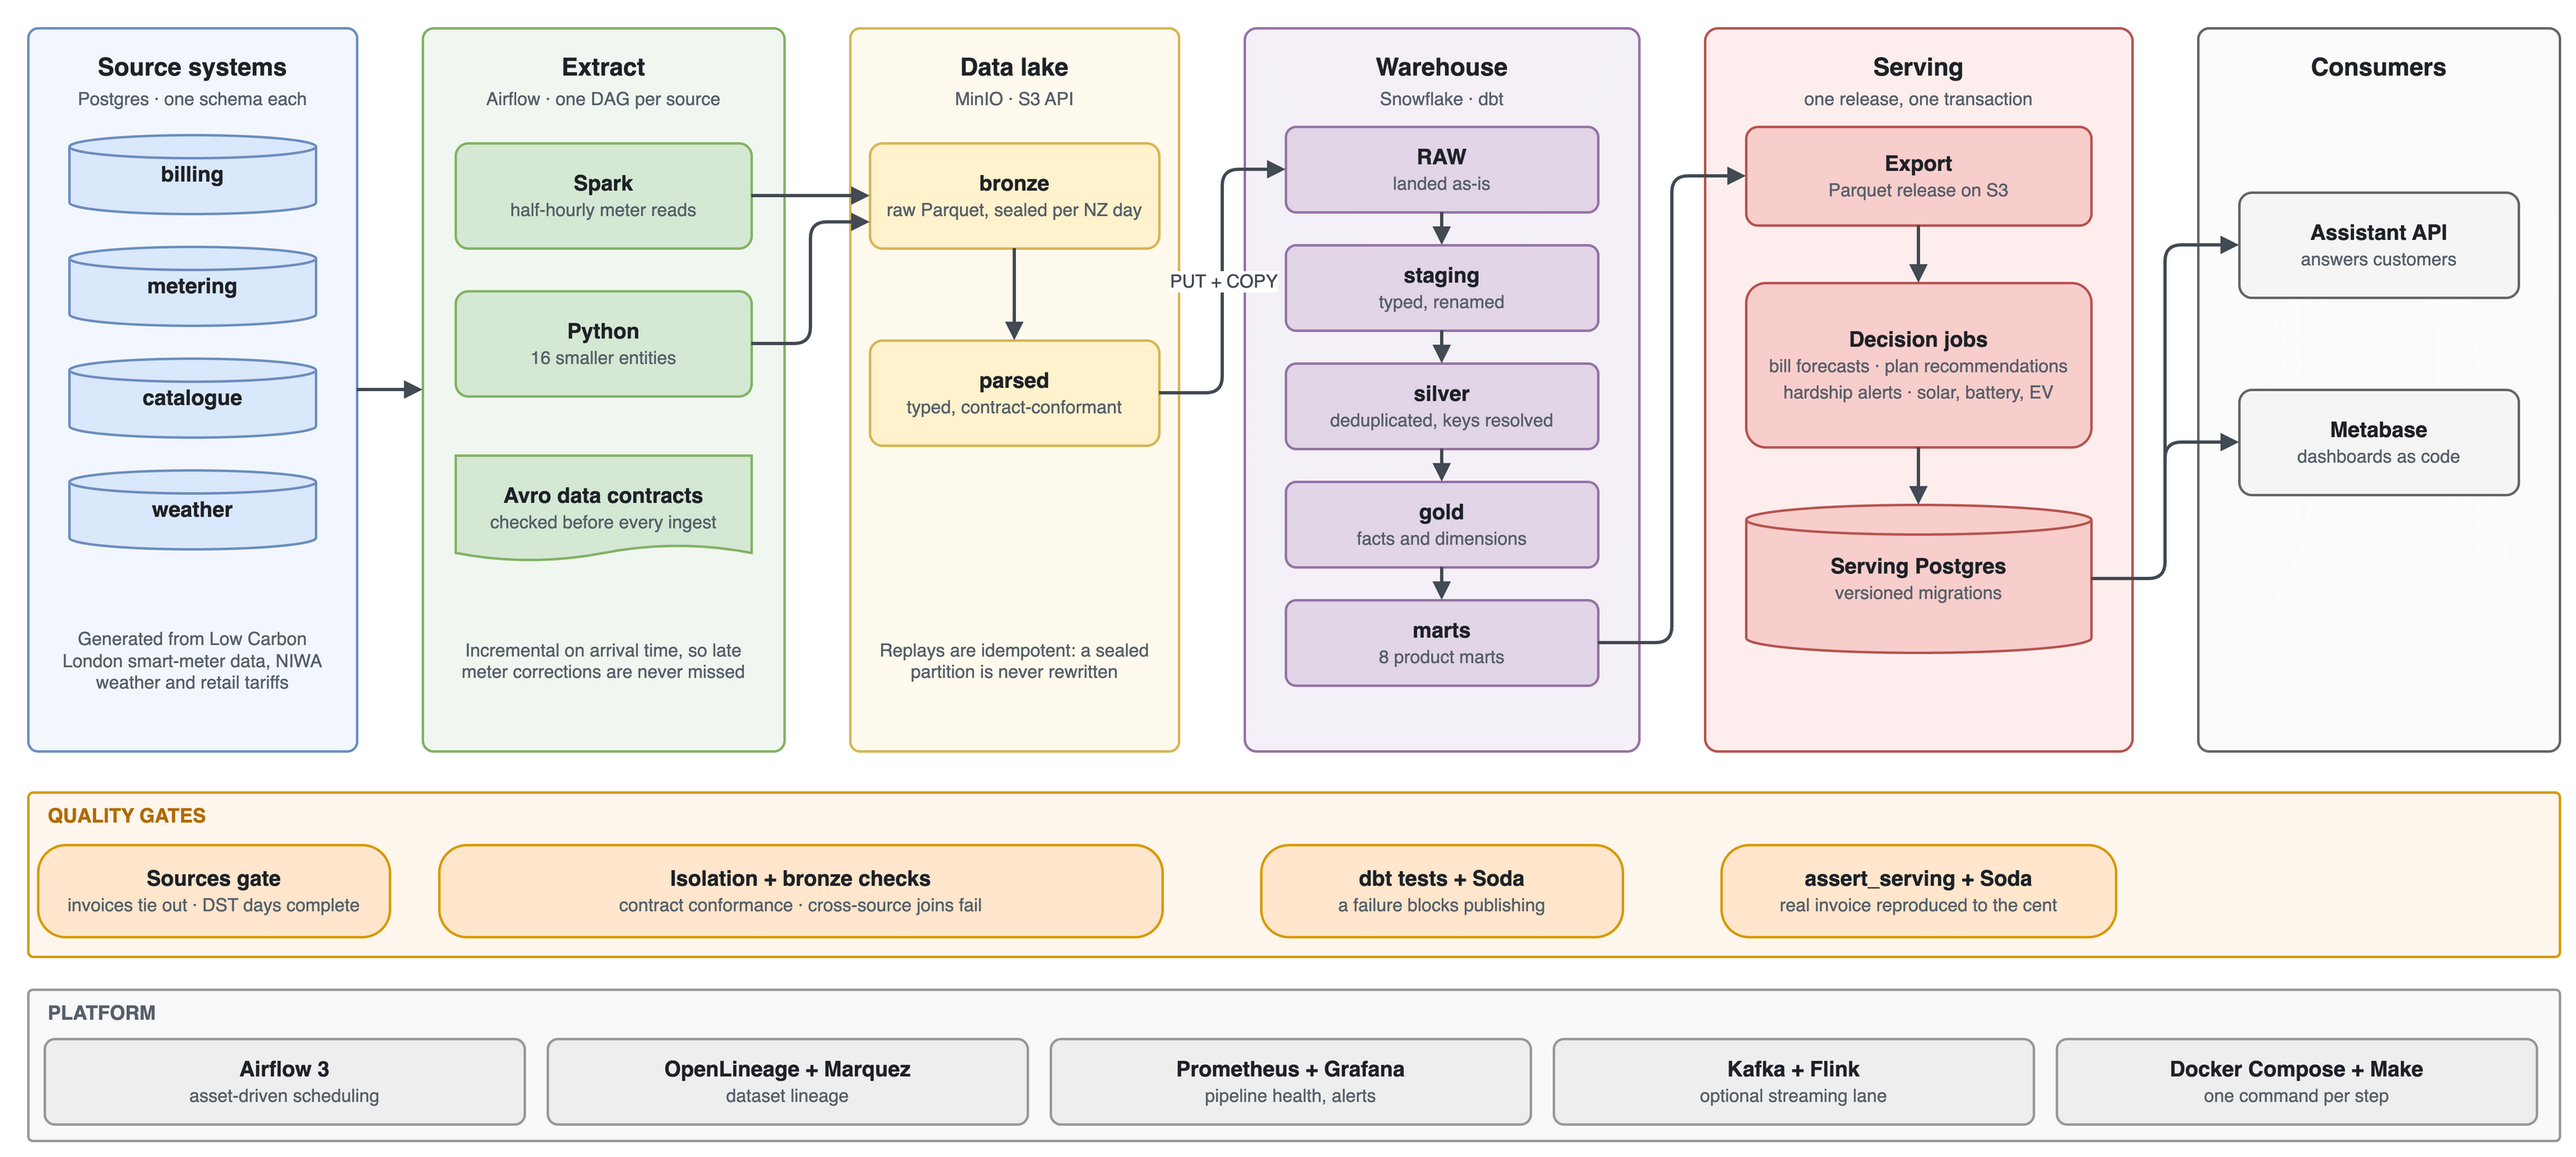
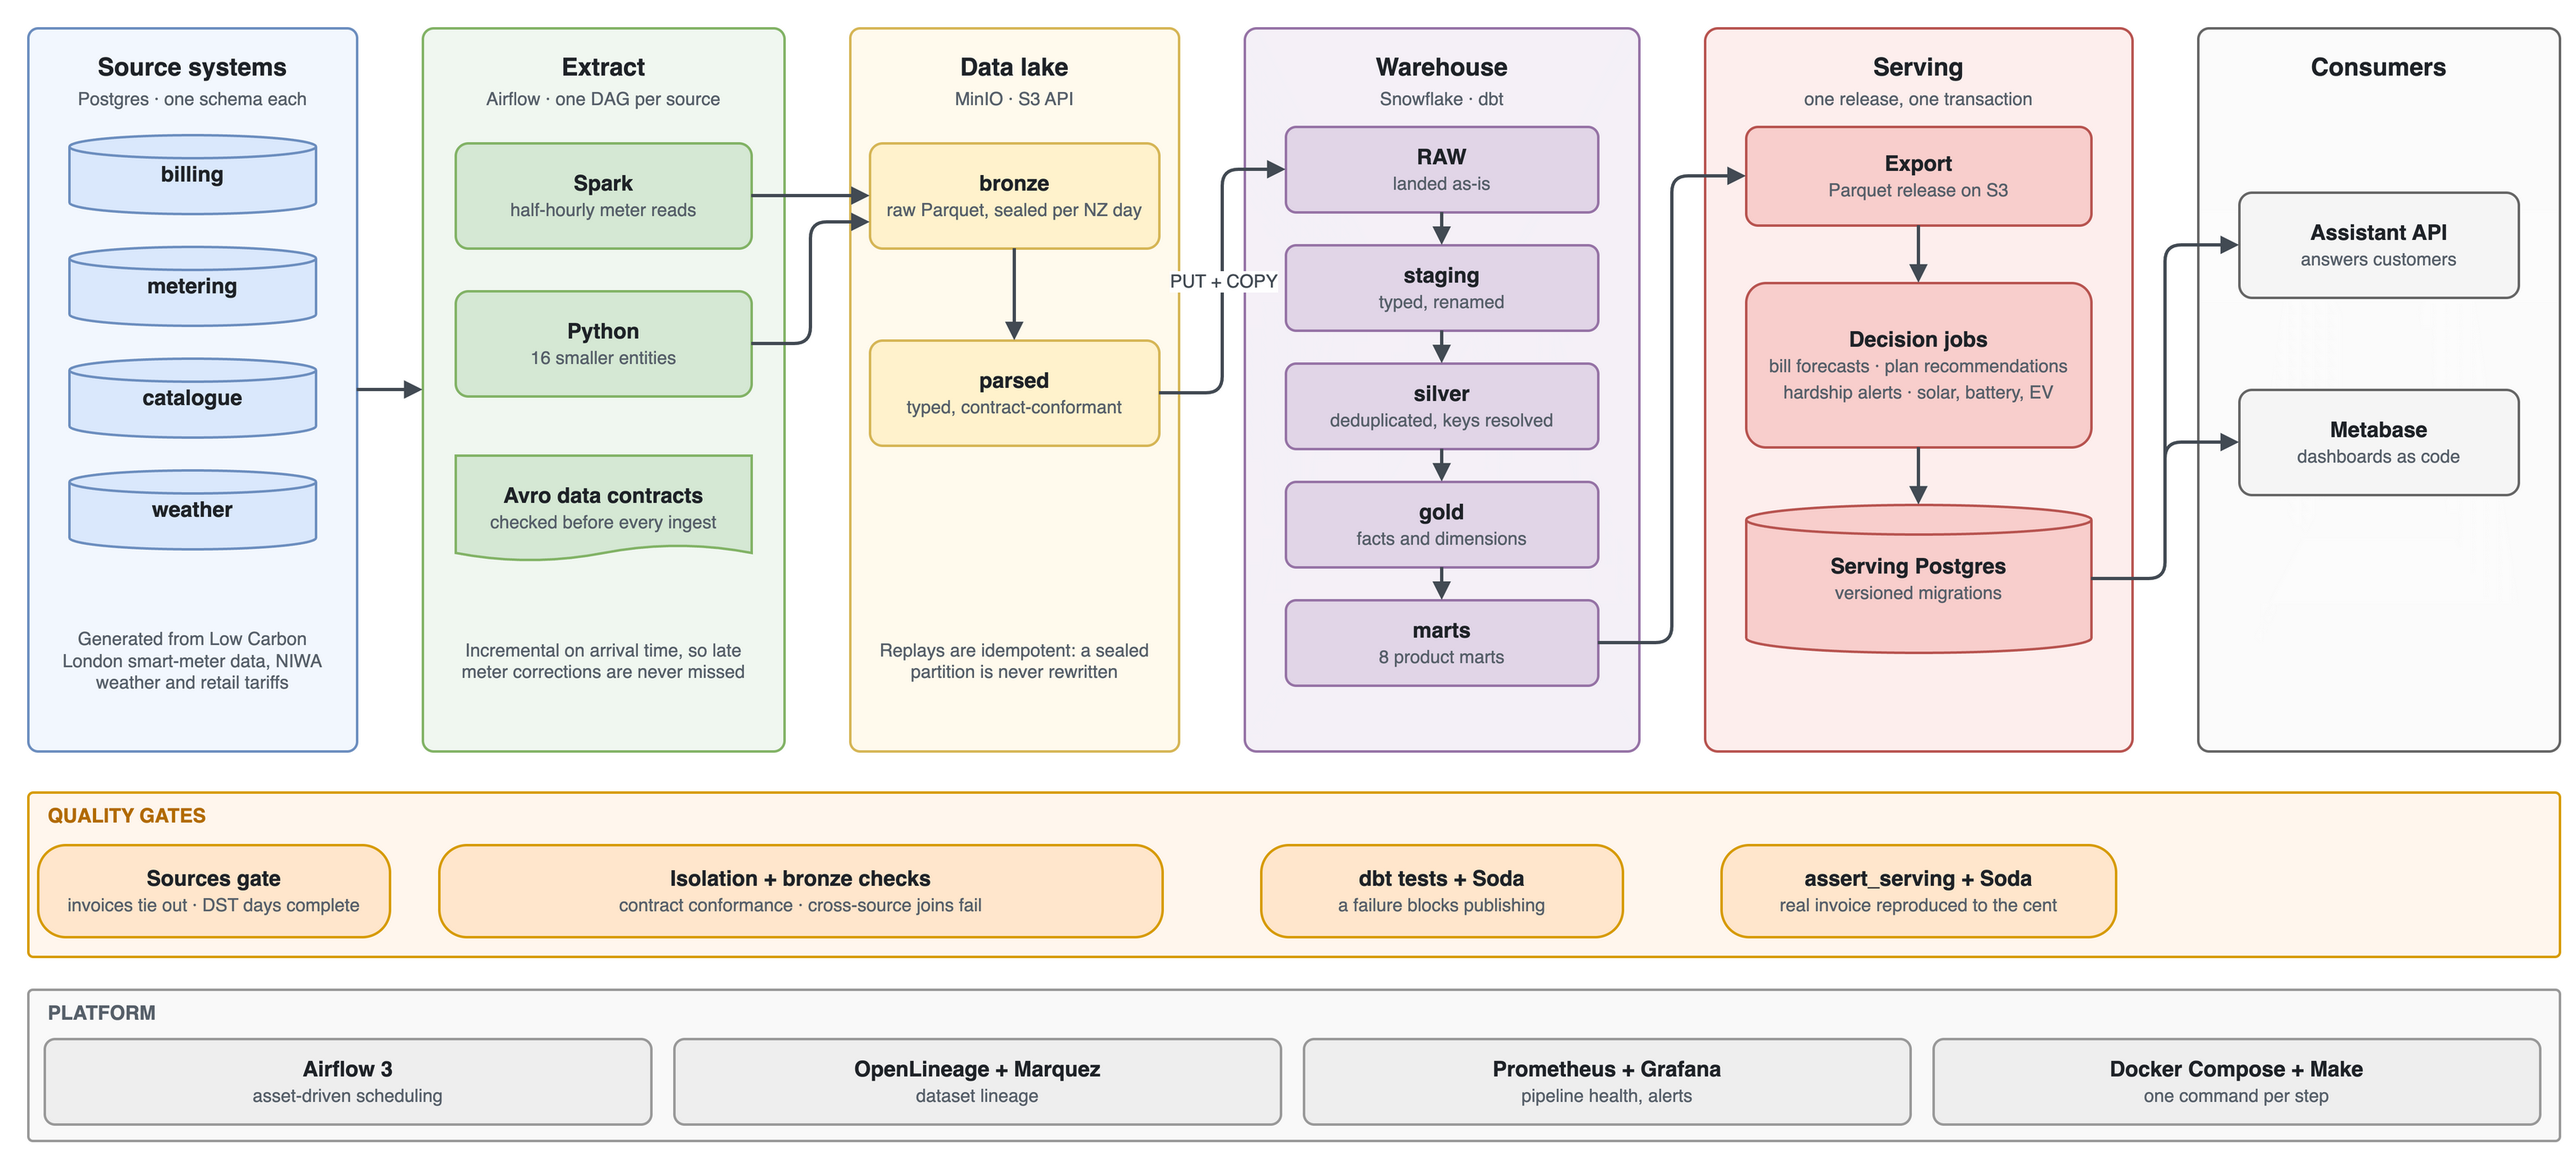
docs: restructure the README around results, data flow and how to run it

diff --git a/README.md b/README.md
@@ -1,104 +1,150 @@
 # Kea Energy — Data Platform
 
-The data platform behind **Kea**, an AI assistant for New Zealand electricity customers.
-It explains why a bill went up, forecasts the next one, recommends a cheaper plan, prices
-solar, battery and EV options, and flags households heading into payment difficulty.
+**A batch data platform that turns smart-meter readings into bill explanations, bill forecasts
+and plan recommendations for New Zealand electricity customers.**
 
-This repository is the batch pipeline that feeds the assistant. It takes data from four
-source systems, writes it to an S3 data lake, models it in Snowflake with dbt, and
-publishes tested releases into the application's Postgres. Every number the assistant
-quotes can be traced back to a source row.
+Kea is an AI assistant for electricity customers. Customers ask it questions like "why did my
+bill go up?", "what will next month cost?" and "would another plan be cheaper?". Each answer
+needs half-hourly meter data, billing history, tariffs and weather from separate systems, and
+it has to be correct. This repository is the pipeline that collects that data, models it and
+publishes it to the assistant in tested releases.
 
 ![Kea data pipeline](design/figures/pipeline.png)
 
+## Highlights
+
+- **End to end, from source to app.** 4 source systems and 17 entities flow through 6 Airflow
+  DAGs, 53 dbt models and 8 Metabase dashboards. Each pipeline step is a single `make`
+  command, and every step is safe to run again.
+- **Correct to the cent.** The serving gate recalculates a real printed invoice from its
+  half-hourly meter reads and must match it exactly: **$50.54**.
+- **Forecasts are backtested before they ship.** On 200 households, a kNN quantile model
+  ([Botman et al., 2025](analysis/forecast_backtest/README.md)) was tested as a fallback for
+  the production bill forecast:
+  - its P10–P90 range contained the actual month-end usage **81.1%** of the time (target 70–90%);
+  - its CRPS (probabilistic forecast error, lower is better) was **0.85×** the production
+    model's;
+  - as a fallback, it raises the number of billing snapshots that get a forecast from
+    **23,152 to 61,234**.
+- **Failed releases never reach the app.** Each release publishes the served tables and the
+  decisions computed from them in one transaction. If any dbt test fails, the app keeps
+  serving the previous release.
+- **Tested at every layer.** 488 Python tests, dbt data and unit tests, Soda checks, and a SQL
+  gate at the end of each step.
+
+## How it works
+
+1. **Sources.** Four Postgres systems (billing, metering, catalogue, weather) are generated
+   from public data and include deliberate defects and late meter corrections.
+2. **Extract.** Each source system has its own Airflow DAG and least-privilege database role.
+   Spark handles the half-hourly meter reads and plain Python handles the 16 smaller entities.
+   Extracts are incremental on arrival time, so late corrections are picked up.
+3. **Lake.** Data lands as Parquet on S3-compatible storage, sealed per New Zealand day and
+   checked against Avro contracts.
+4. **Warehouse.** Data is loaded into Snowflake, then modelled by dbt through staging →
+   silver → gold → marts, with tests at each layer.
+5. **Serve.** Marts are exported as a release and published to the app's Postgres. In the
+   same transaction, decision jobs compute bill forecasts, plan recommendations, hardship
+   alerts and solar, battery and EV estimates.
+
 ## Tech stack
 
-| Concern | Tools |
-|---|---|
-| Orchestration | Airflow 3.3 (asset-driven DAGs) |
-| Processing | Spark 3.5 for half-hourly meter reads, plain Python for the smaller entities |
-| Storage | MinIO (S3 API), Parquet, Avro schemas as data contracts |
-| Warehouse | Snowflake, dbt 1.12 (staging → silver → gold → marts) |
-| Serving | Postgres 17, versioned immutable migrations |
-| Data quality | dbt tests and unit tests, Soda Core, SQL serving gate |
-| Observability | OpenLineage + Marquez (lineage), Prometheus + Grafana (pipeline health), Metabase (analysis) |
-| Streaming (optional) | Kafka, Schema Registry, Flink |
-| Infrastructure | Docker Compose, Make, Vault (dev) |
-
-## Data
-
-The source systems are generated from real public datasets, so the data has real
-behaviour but contains no customer information.
-
-| Source | Used for |
-|---|---|
-| [Low Carbon London](https://www.kaggle.com/datasets/jeanmidev/smart-meters-in-london) smart-meter data | A deterministic 200-household cohort, re-timed to New Zealand local time ([how](dictionary/lcl-source-data.md)) |
-| [NIWA](dictionary/niwa-weather-source.md) daily temperature | Heating-degree days for weather-adjusted forecasts (non-commercial licence, not redistributed) |
-| [Retail tariffs](dictionary/ecotricity-tariff-source.md) | Three plan families used to price bills; values that had to be assumed are marked |
-| [`sample/`](sample/) | Nine hand-built households, each a bill-shock scenario that checks its own totals |
-
-Billing history, data defects and late revisions are added on top, so the quality gates
-have real problems to catch. Dollar figures are illustrative.
+| Layer | Tool | Why |
+|---|---|---|
+| Orchestration | Airflow 3.3 | Data-aware scheduling: the daily pipeline starts when its source data has landed, not at a fixed time |
+| Processing | Spark 3.5, Python | Spark only for the millions of meter reads; small tables don't justify a cluster |
+| Lake | MinIO, Parquet, Avro | Runs locally with the same S3 API as AWS; Avro contracts catch schema drift before ingest |
+| Warehouse | Snowflake, dbt 1.12 | Layered, version-controlled SQL models with built-in tests and docs |
+| Serving | Postgres 17 | The app's own database; schema changes go through immutable, versioned migrations |
+| Data quality | dbt tests, Soda Core | Tests the logic during the build and checks the data after each load |
+| Observability | OpenLineage + Marquez, Prometheus + Grafana | Table-level lineage plus pipeline health and alerting |
+| Analytics | Metabase | Dashboards built from code, with every card checked automatically |
 
 ## Getting started
 
 **Prerequisites:** Docker, GNU Make, Python 3.11, a Snowflake account (set up once with
-[`snowflake/bootstrap.sql`](snowflake/bootstrap.sql)), and a Kaggle API token.
+[`snowflake/bootstrap.sql`](snowflake/bootstrap.sql)), and a
+[Kaggle API token](https://www.kaggle.com/settings) to download the meter data.
 
 ```bash
-cp .env.example .env      # fill in passwords, Snowflake key-pair auth,
-                          # and add KAGGLE_USERNAME / KAGGLE_KEY
-make help                 # list every step in run order
-make ci                   # lint, unit tests, dbt parse, DAG import; needs no .env
+git clone https://github.com/nanhangfei/kea-energy-data.git && cd kea-energy-data
+cp .env.example .env      # fill in passwords and Snowflake key-pair auth;
+                          # add KAGGLE_USERNAME and KAGGLE_KEY
+make ci                   # offline checks; needs no .env or credentials
 make rebuild-all          # the whole pipeline end to end (~23-37 min)
 ```
 
-Each step is one idempotent command, and each calls the same scripts the Airflow DAG runs:
+Or run it one step at a time. Each command calls the same scripts as the Airflow DAG:
 
 | Step | Command | What it does |
 |---|---|---|
-| Stack | `make up` | Start the local platform (`STREAMING=1` adds Kafka and Flink) |
-| Sources | `make init-sources` | Generate and load the four source systems, then check them |
-| Lake | `make ingest-date LOAD_DATE=…` | Extract one NZ day from every source into bronze, then check it |
-| Warehouse | `make build-warehouse` | Load Snowflake RAW, run `dbt build`, then run Soda checks |
-| Serving | `make publish-serving RELEASE=…` | Export, publish one release with its decisions, then check it |
-| Analysis | `make dashboards` | Rebuild Metabase dashboards from code and check every card |
-| Orchestration | `make run-pipeline` | Trigger the daily DAG; `VERIFY=1` runs the quality proofs |
+| Stack | `make up` | Start the local platform |
+| Sources | `make init-sources` | Generate and load the four source systems |
+| Lake | `make ingest-date LOAD_DATE=2026-08-25` | Extract one NZ day from every source |
+| Warehouse | `make build-warehouse` | Load Snowflake and run `dbt build` |
+| Serving | `make publish-serving RELEASE=r1` | Publish one release with its decisions |
+| Analysis | `make dashboards` | Rebuild the Metabase dashboards |
 
-Local UIs: Airflow `:8080`, Metabase `:3002`, Grafana `:3001`, Marquez `:3000`, Spark history `:18080`.
+Local UIs: Airflow [:8080](http://localhost:8080), Metabase [:3002](http://localhost:3002),
+Grafana [:3001](http://localhost:3001), Marquez [:3000](http://localhost:3000).
+`make help` lists every command and option.
 
-## Repository layout
+## Testing and data quality
+
+| Command | What it checks |
+|---|---|
+| `make ci` | Lint, unit tests, migrations, dbt parse and DAG imports, offline |
+| `make ingest-date VERIFY=1` | The lake: an idempotent replay, contract conformance, and that a billing outage leaves metering unaffected |
+| `make run-pipeline VERIFY=1` | Failure paths end to end, for example that a failing dbt test leaves the served data unchanged |
+
+Every step ends with a gate that fails the run: source integrity, lake isolation, `dbt test`
+plus Soda on the warehouse, and `assert_serving` plus Soda on the published release.
+
+## Data
+
+The data is generated from real public datasets, so it behaves like real data but contains
+no customer information.
+
+| Source | Used for |
+|---|---|
+| [Low Carbon London](https://www.kaggle.com/datasets/jeanmidev/smart-meters-in-london) smart-meter data | A deterministic 200-household cohort, shifted to NZ time and seasons ([details](dictionary/lcl-source-data.md)) |
+| [NIWA](dictionary/niwa-weather-source.md) daily temperatures | Heating-degree days for weather-adjusted forecasts (non-commercial licence, not redistributed) |
+| [Retail tariffs](dictionary/ecotricity-tariff-source.md) | Three plan families used to price every bill |
+| [`sample/`](sample/) | Nine hand-built households, each a "why did my bill go up" scenario that checks its own totals |
+
+## Project structure
 
 ```
 pipeline/
-  airflow/dags/      extract DAGs (one per source), the daily pipeline, forecast refresh
-  spark_jobs/        meter-read extract and parse, bronze checks
+  airflow/dags/      one extract DAG per source, the daily pipeline, forecast refresh
+  spark_jobs/        meter-read extract and parse
   contracts/avro/    data contracts for all 17 source entities
-  dbt_project/       staging → silver → gold → marts, with tests and unit tests
-  export/            one SQL file per served table: the warehouse-to-app mapping
-  scripts/           loaders, the publisher, decision jobs, gates, data generation
+  dbt_project/       staging → silver → gold → marts, with tests
+  export/            one SQL file per served table
+  scripts/           loaders, publisher, decision jobs, gates, data generation
   soda/              warehouse and serving checks
-  monitoring/        Prometheus, Grafana and alerting configuration
-migrations/serving/  immutable, ordered schema migrations for the serving database
-design/              platform design, stack and build order, DDL
+migrations/serving/  versioned schema migrations for the serving database
+design/              architecture docs, DDL and the pipeline diagram
 dictionary/          source datasets: meaning, units, quirks, provenance
-analysis/            Metabase dashboards as code, forecast backtest, evaluations
-sample/              nine bill-shock households used as test fixtures
+analysis/            dashboards as code, forecast backtest, evaluations
 ```
+
+## Limitations
+
+- **Extracted from a monorepo.** `make publish-serving` expects the app's database and API
+  in sibling directories (`../infra`, `../services/api`). Every step before it runs on its own.
+- **Snowflake trial ended in October 2026.** All warehouse tables were archived to Parquet
+  first ([`archive_warehouse.py`](pipeline/scripts/ops/archive_warehouse.py)). To rebuild,
+  point `.env` at your own account.
+- **Streaming is not built yet.** Kafka and Flink are defined in `docker-compose.yml`
+  (`make up STREAMING=1`), but nothing produces to or consumes from them.
+- **Dollar figures are illustrative.** Tariffs come from public sources; values that had to
+  be assumed are marked as such in the data dictionary.
 
 ## Documentation
 
-- [Platform design](design/kea-data-platform-design.md): what the pipeline does and why
+- [Platform design](design/kea-data-platform-design.md): what the pipeline does and the reasoning behind each design choice
 - [Engineering stack](design/kea-data-engineering-stack.md): tools, versions and build order
+- [Cohort selection](design/kea-cohort-selection.md): how the 200 households were chosen
+- [Forecast backtest](analysis/forecast_backtest/README.md): method and full results
 - [Serving migrations](migrations/serving/README.md): first run, baseline and recovery
-- [Synthetic sources](pipeline/scripts/gen_source/README.md): what is generated and what is assumed
-- [Forecast backtest](analysis/forecast_backtest/README.md): kNN quantile forecasts (Botman et al., 2025) compared against the production model
-
-## Status
-
-- **Extracted from a monorepo.** The serving database and the assistant API lived in
-  sibling directories (`../infra`, `../services/api`). `make publish-serving` expects
-  them there. Every step before it runs on its own.
-- **The original Snowflake trial ended in October 2026.** Every warehouse table was
-  archived to Parquet first ([`archive_warehouse.py`](pipeline/scripts/ops/archive_warehouse.py)).
-  To run the warehouse step again, point `.env` at your own account.
